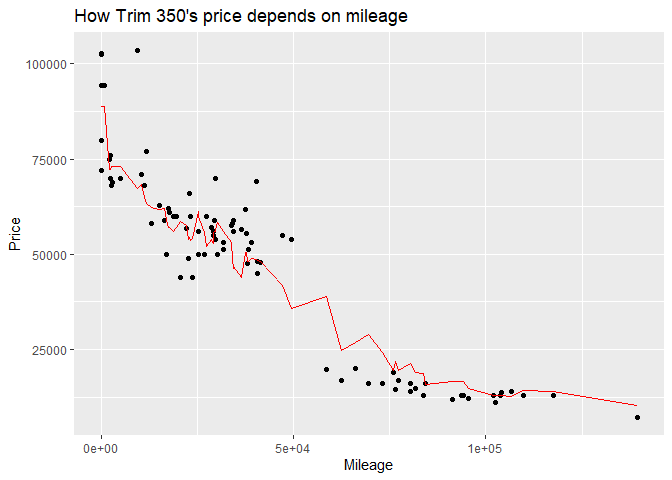
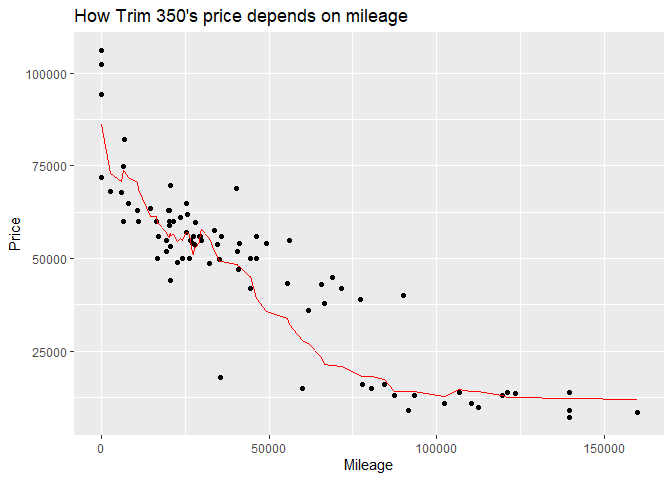
fixing errors

diff --git a/hw1-markdown.md b/hw1-markdown.md
@@ -64,6 +64,7 @@ almost-record high numbers for 2020.
     ## 19 Neil Diamond             30
 
 ![](hw1-markdown_files/figure-markdown_strict/19%20Artists%20that%20are%20Built%20Different%20(2C)-1.png)
+
 \#3) Wrangling the Olympics
 
 \#\#Part A:
@@ -108,44 +109,46 @@ dropped to an average age of about 20 for men and 17 for women until the
 
 \#4.) K-nearest Neighbors
 
-\#\#Trim 350 analysis \#\#\# Splitting the dataset and making
-predictions
+Trim 350 Analysis
+-----------------
 
-    ## [1] 9652.476
+### Making predictions
 
-    ## [1] 8702.561
+    ## [1] 11508.67
 
-    ## [1] 9151.221
+    ## [1] 10075.39
 
-    ## [1] 11418.08
+    ## [1] 10391.73
 
-    ## [1] 22434.62
+    ## [1] 10778.91
+
+    ## [1] 19714.24
 
 Above are the RMSE outputs, in order, of arbitrarily selected values of
 K (2, 10, 25, 100, and 300 respectively).
 
-    ##    trim mileage  price k2_price_pred k10_price_pred k25_price_pred
-    ## 2   350   17770  60900       53445.0        56860.2       57203.72
-    ## 3   350   29108  54995       60445.0        51160.3       53879.44
-    ## 6   350   19567  59977       50947.5        57455.4       57118.24
-    ## 18  350  117683  12900       12196.0        14570.8       12811.56
-    ## 23  350    2384  75900       71929.5        72394.8       79351.56
-    ## 29  350   11862  76878       67245.5        63191.4       65558.12
-    ## 39  350   31782  52999       49727.5        56911.1       55179.00
-    ## 44  350   18748  59995       57379.0        56832.5       57148.60
-    ## 45  350    9300 103410       77589.5        69292.7       67501.16
-    ## 47  350   80511  15991       29197.5        20251.5       18731.68
+    ##    trim mileage price k2_price_pred k10_price_pred k25_price_pred
+    ## 5   350   66689 37995       42495.0        21458.9       22821.08
+    ## 9   350   23677 61001       52883.5        53833.3       55598.92
+    ## 13  350   26183 49990       62975.5        55593.8       56484.76
+    ## 17  350   61676 35900       17989.5        25369.0       27366.00
+    ## 28  350   41075 53981       50918.0        47357.5       48562.40
+    ## 34  350   11076 59900       68931.0        68000.5       67190.84
+    ## 36  350   32290 48789       60945.5        54661.9       54990.40
+    ## 38  350   40755 46995       52987.0        47260.0       48212.56
+    ## 49  350    7000 82000       66449.0        70463.7       71699.52
+    ## 52  350   10721 62988       70397.5        68000.5       67950.96
     ##    k100_price_pred k300_price_pred
-    ## 2         59166.49        50193.70
-    ## 3         54131.49        50193.70
-    ## 6         57978.50        50193.70
-    ## 18        20202.58        43194.97
-    ## 23        66154.25        50193.70
-    ## 29        62701.38        50193.70
-    ## 39        52957.61        50193.70
-    ## 44        58206.73        50193.70
-    ## 45        66154.25        50193.70
-    ## 47        24872.37        43616.80
+    ## 5         28140.06        44803.73
+    ## 9         56145.84        50366.44
+    ## 13        55585.96        50366.44
+    ## 17        32021.85        45190.07
+    ## 28        48507.90        50366.44
+    ## 34        65235.85        50366.44
+    ## 36        53072.02        50366.44
+    ## 38        48839.34        50366.44
+    ## 49        67537.10        50366.44
+    ## 52        66760.92        50366.44
 
 This table shows our testing set with the predictions of each model
 associated with a value of k. For brevity we added only the first 10
@@ -157,50 +160,50 @@ observations.
 
 ### Finding Optimal K and Plotting the Model
 
-    ## [1] 12
+    ## [1] 16
 
 ![](hw1-markdown_files/figure-markdown_strict/Finding%20Optimal%20K%20and%20Plotting%20the%20Model%20-1.png)
 
 Trim 65 AMG analysis
 --------------------
 
-### Splitting the data and making predictions
+### Making predictions
 
-    ## [1] 28111.88
+    ## [1] 22546.56
 
-    ## [1] 21909.88
+    ## [1] 20029.15
 
-    ## [1] 21653.99
+    ## [1] 21279.01
 
-    ## [1] 43878.5
+    ## [1] 29408.13
 
-    ## [1] 74786.53
+    ## [1] 74830.28
 
 Above are the predicted RMSE values for different values of K (2, 10,
 25, 100, and 200 respectively).
 
     ##      trim mileage  price k2_price_pred k10_price_pred k25_price_pred
-    ## 16 65 AMG   55730  78992       58492.5        61371.5       54115.68
-    ## 25 65 AMG   48579  77444       61387.5        57643.2       57388.92
-    ## 32 65 AMG   52951  64999       48645.0        55144.9       57861.12
-    ## 40 65 AMG   15512 114998      125694.0       112700.6      103428.60
-    ## 43 65 AMG       8 224765      230345.0       229504.5      229117.80
-    ## 58 65 AMG   44075  50037       59870.5        63039.0       61112.04
-    ## 63 65 AMG       7 227865      230184.0       229458.8      228462.81
-    ## 65 65 AMG   79713  45888       32497.0        33256.0       39876.28
-    ## 73 65 AMG   67604  44777       61943.5        44210.4       44605.12
-    ## 76 65 AMG   32115  50999       69888.0        61009.6       75957.00
+    ## 4  65 AMG   73415  54981       27450.0        39906.1       41018.20
+    ## 11 65 AMG       5 216510      229455.0       229046.2      228783.48
+    ## 14 65 AMG   69652  42982       34416.0        45870.9       41759.80
+    ## 15 65 AMG   79795  41995       34443.5        33455.0       38831.12
+    ## 16 65 AMG   55730  78992       58492.5        66883.0       56679.88
+    ## 22 65 AMG      11 235365      228518.8       228754.5      228755.60
+    ## 25 65 AMG   48579  77444       61387.5        57453.2       57114.36
+    ## 26 65 AMG      17 225681      231141.2       231814.5      230223.20
+    ## 35 65 AMG   51670  59995       64745.5        60855.6       59273.28
+    ## 49 65 AMG   61560  47888       47935.5        43688.6       50065.12
     ##    k100_price_pred k200_price_pred
-    ## 16        53993.36        110095.8
-    ## 25        60942.53        110858.0
-    ## 32        57844.02        110095.8
-    ## 40       174489.00        131982.1
-    ## 43       201123.84        131982.1
-    ## 58        65208.30        112002.5
-    ## 63       201123.84        131982.1
-    ## 65        49890.20        111721.3
-    ## 73        51300.97        112069.4
-    ## 76        77726.29        131982.1
+    ## 4         49561.42        111771.8
+    ## 11       195782.70        128742.1
+    ## 14        49671.93        111771.8
+    ## 15        48781.46        108684.7
+    ## 16        52842.13        109782.9
+    ## 22       195782.70        128742.1
+    ## 25        60966.99        110524.4
+    ## 26       195782.70        128742.1
+    ## 35        57979.62        110112.5
+    ## 49        51159.93        112113.8
 
 This table shows our testing set with the predictions of each model
 associated with a value of k. For brevity we added only the first 10
@@ -212,10 +215,12 @@ observations.
 
 ### Finding Optimal K and Plotting the Model
 
-    ## [1] 18
+    ## [1] 5
 
 ![](hw1-markdown_files/figure-markdown_strict/Finding%20Optimal%20K%20and%20Plotting%20the%20Model-1.png)
-\#\# Discussion
+
+Discussion
+----------
 
 It would appear that, with repeated trials, Trim 350’s optimal value of
 k is generally higher. This is due to Trim 350’s larger sample size.
